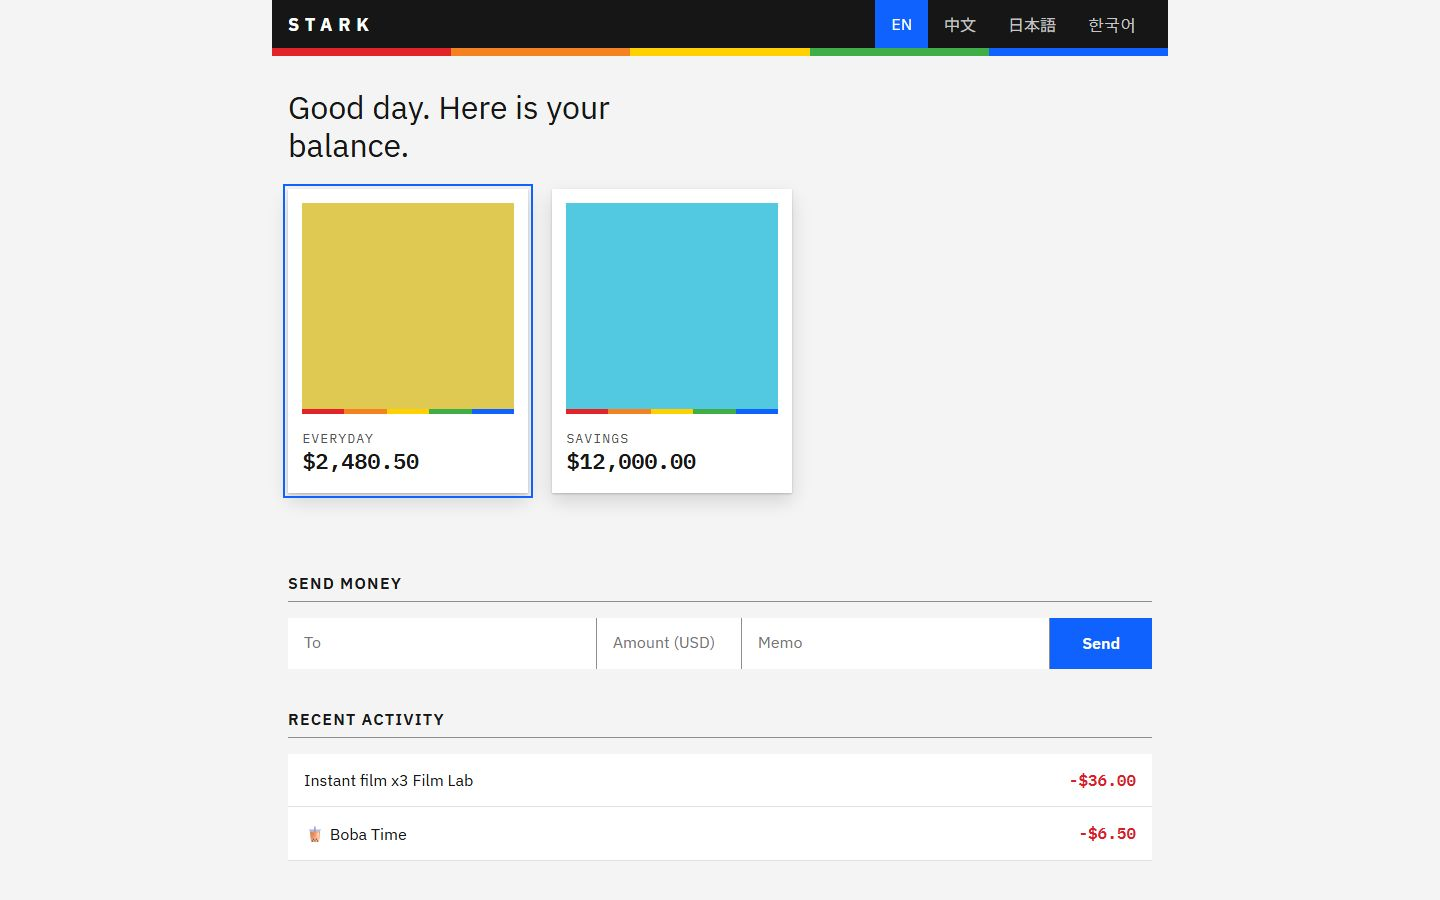
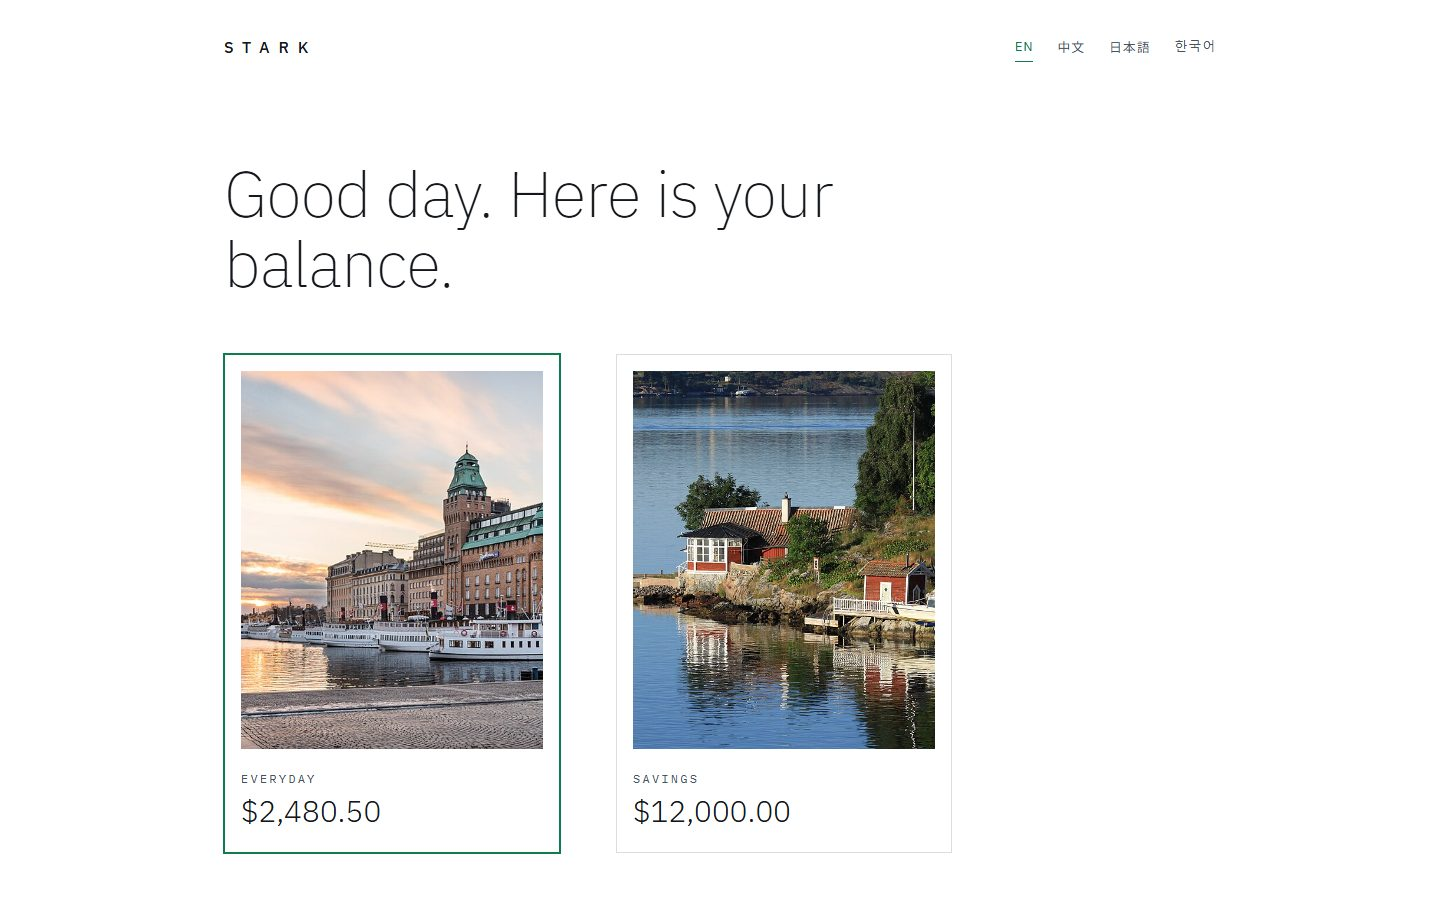
Add image credits, refresh portfolio copy and screenshots

diff --git a/src/profile.ts b/src/profile.ts
@@ -31,7 +31,7 @@ export const apps = [
   },
   {
     name: 'Crypto Store',
-    blurb: 'A Web3 supermarket with a playful, Nintendo-inspired storefront and a .NET API.',
+    blurb: 'A luxury crypto-checkout boutique: editorial photography, serif typography and a .NET API.',
     image: 'screens/crypto.jpg',
     stack: ['TanStack Router/Query', '.NET 10', 'SQLite'],
     folder: 'crypto-store',
@@ -40,7 +40,7 @@ export const apps = [
   },
   {
     name: 'STARK',
-    blurb: 'Challenger-bank dashboard that fuses Polaroid framing with IBM Carbon-style clarity.',
+    blurb: 'Challenger-bank dashboard in a Polestar-calm palette of green and slate, with Polaroid-framed accounts.',
     image: 'screens/bank.jpg',
     stack: ['React', 'Vite', 'Node.js', 'Fastify', 'SQLite'],
     folder: 'neo-bank',

diff --git a/apps/CREDITS.md b/apps/CREDITS.md
@@ -1,0 +1,21 @@
+# Image credits
+
+Photographs are from Wikimedia Commons. CC BY and CC BY-SA images require attribution.
+
+| File | Title | Author | Licence | Source |
+|---|---|---|---|---|
+| art-patron/web/public/creators/1.jpg | Taipei night skyline May 2025.jpg | 4300streetcar | CC BY 4.0 | [Commons](https://commons.wikimedia.org/wiki/File:Taipei_night_skyline_May_2025.jpg) |
+| art-patron/web/public/creators/2.jpg | Ihwa Mural Village october 18.jpg | travel oriented from Seoul, South Korea | CC BY-SA 2.0 | [Commons](https://commons.wikimedia.org/wiki/File:Ihwa_Mural_Village_october_18.jpg) |
+| art-patron/web/public/creators/3.jpg | Harajuku - Takeshita Street 28 (15554040909).jpg | Joe Mabel on Flickr as Joe Mabel from Seattle, US | CC BY-SA 3.0 | [Commons](https://commons.wikimedia.org/wiki/File:Harajuku_-_Takeshita_Street_28_(15554040909).jpg) |
+| art-patron/web/public/creators/4.jpg | 华强电子世界 1.jpg | Mx. Granger | CC0 | [Commons](https://commons.wikimedia.org/wiki/File:%E5%8D%8E%E5%BC%BA%E7%94%B5%E5%AD%90%E4%B8%96%E7%95%8C_1.jpg) |
+| art-patron/web/public/creators/5.jpg | Gamcheon Culture Village.jpg | Bernard Gagnon | CC0 | [Commons](https://commons.wikimedia.org/wiki/File:Gamcheon_Culture_Village.jpg) |
+| crypto-store/web/public/products/1.jpg | Gold coin of the Kushan empire, king Vasudeva I.jpg | anonymous | CC0 | [Commons](https://commons.wikimedia.org/wiki/File:Gold_coin_of_the_Kushan_empire%2C_king_Vasudeva_I.jpg) |
+| crypto-store/web/public/products/2.jpg | Trezor Safe 7.jpg | FlippyFlink | CC0 | [Commons](https://commons.wikimedia.org/wiki/File:Trezor_Safe_7.jpg) |
+| crypto-store/web/public/products/3.jpg | Plushies Mexico.jpg | Gzzz | CC BY-SA 4.0 | [Commons](https://commons.wikimedia.org/wiki/File:Plushies_Mexico.jpg) |
+| crypto-store/web/public/products/4.jpg | Nintendo-Game-Boy-Cartridge.jpg | Evan-Amos | Public domain | [Commons](https://commons.wikimedia.org/wiki/File:Nintendo-Game-Boy-Cartridge.jpg) |
+| crypto-store/web/public/products/5.jpg | Heirloom range coffee pot and mug, V&A London.jpg | 14GTR | CC0 | [Commons](https://commons.wikimedia.org/wiki/File:Heirloom_range_coffee_pot_and_mug%2C_V%26A_London.jpg) |
+| neo-bank/web/public/accounts/1.jpg | Nybrokajen Blasieholmen Stockholm 2016 01.jpg | Julian Herzog (Website) | CC BY 4.0 | [Commons](https://commons.wikimedia.org/wiki/File:Nybrokajen_Blasieholmen_Stockholm_2016_01.jpg) |
+| neo-bank/web/public/accounts/2.jpg | Stockholm Schärengarten.jpg | Christof46 | CC BY-SA 4.0 | [Commons](https://commons.wikimedia.org/wiki/File:Stockholm_Sch%C3%A4rengarten.jpg) |
+| crypto-store/web/public/products/3.jpg | The original Winnie the Pooh toys.jpg | Spictacular (talk · contribs) | Public domain | [Commons](https://commons.wikimedia.org/wiki/File:The_original_Winnie_the_Pooh_toys.jpg) |
+
+Airline destination photos and the China Airlines logo are used for demonstration only; the logo is a trademark of its owner.

diff --git a/apps/README.md b/apps/README.md
@@ -16,3 +16,5 @@ Here are some showcase apps built in Node/Go and React. Fully unit & E2E -tested
 
 
 
+
+Image attributions: see [CREDITS.md](./CREDITS.md).
